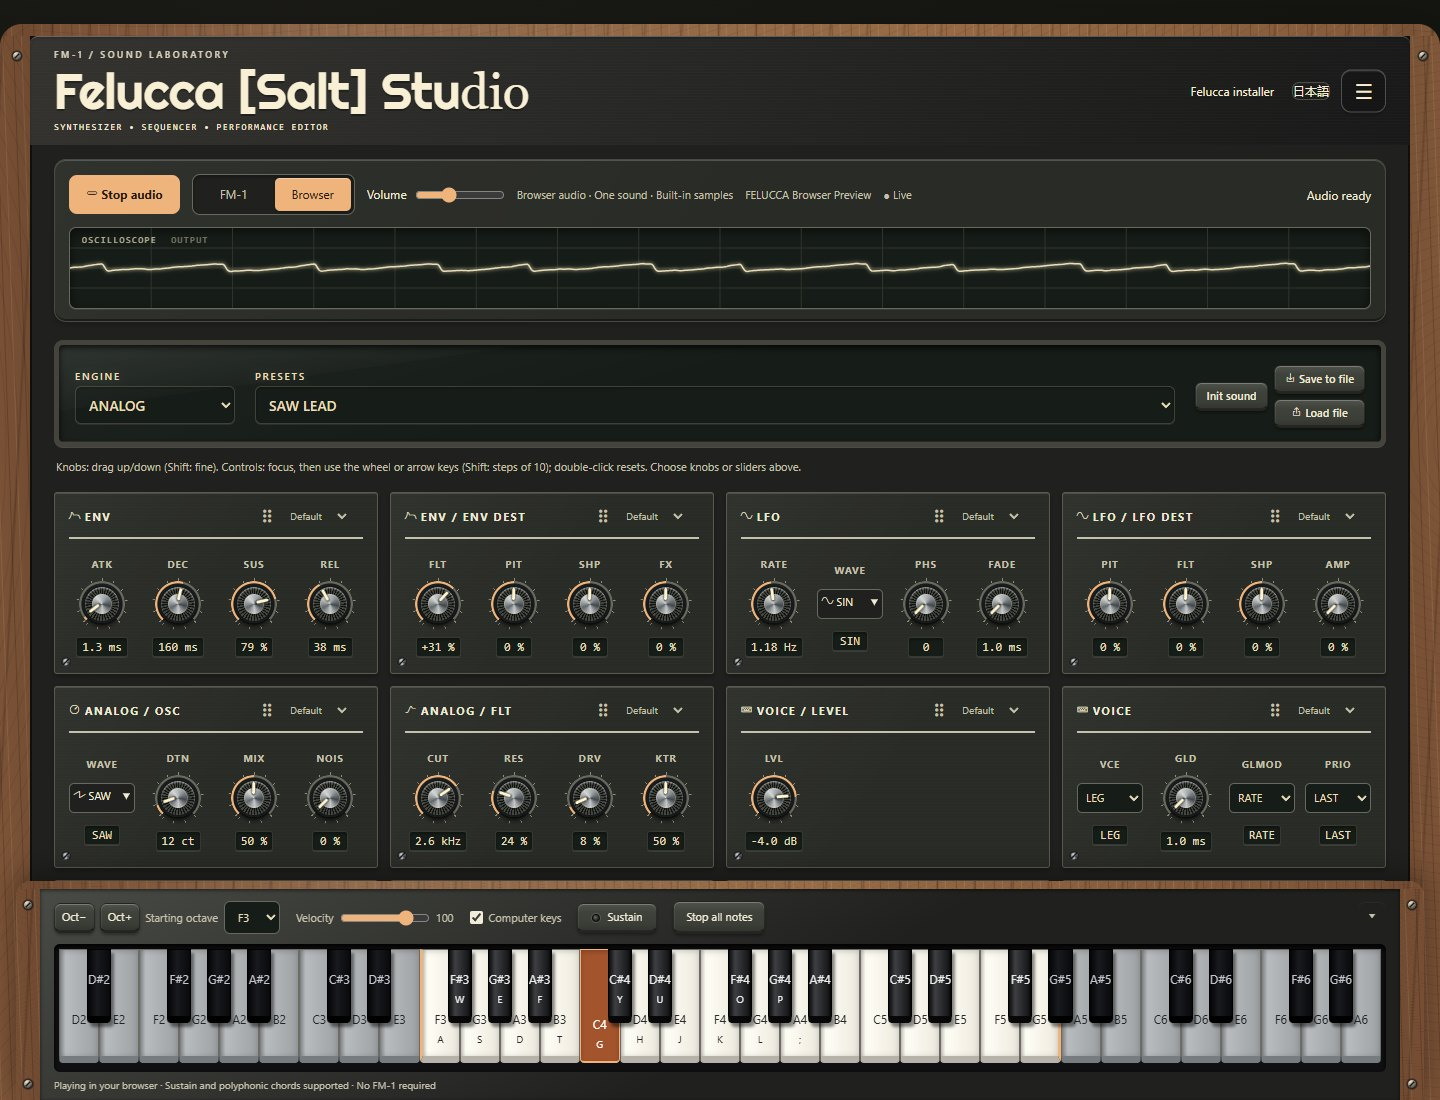
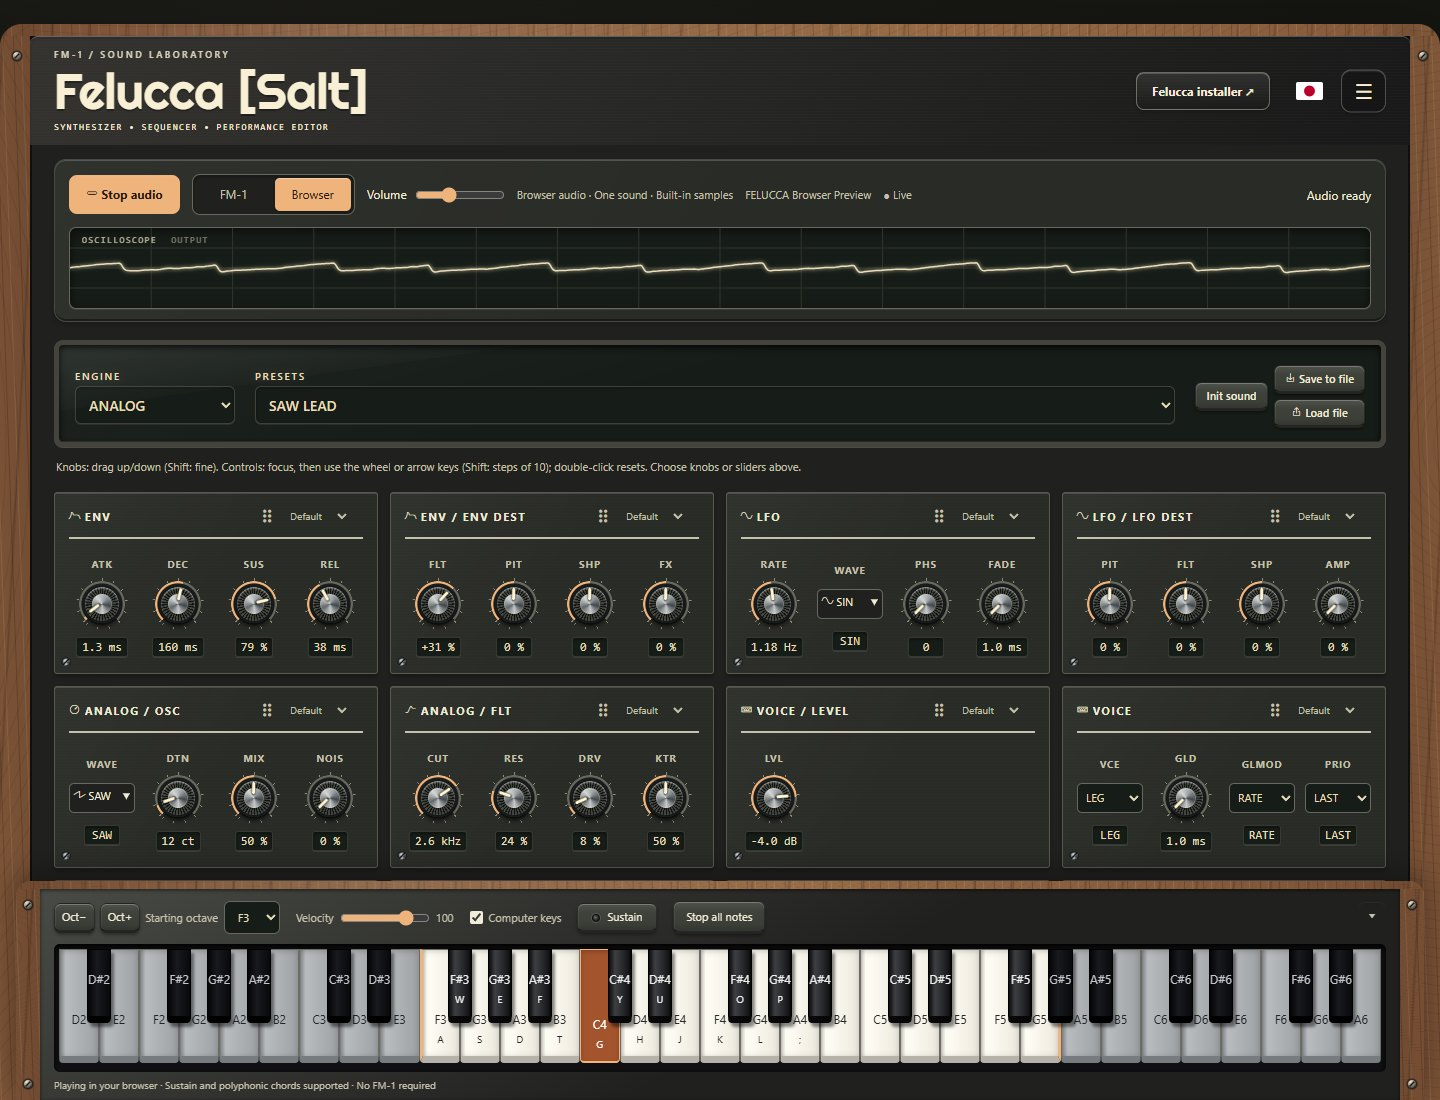
Refine site hero, navigation buttons, language flags, and display fonts

diff --git a/web/index_pkg.html b/web/index_pkg.html
@@ -37,16 +37,103 @@
 <body class="installer-page">
 <main>
   <div class="masthead"><div class="brand-row">
-    <div><div class="eyebrow">FM-1 / Custom firmware</div><h1>Felucca <em>[Salt]</em> Studio</h1><p class="tagline">SMALL INSTRUMENT. BIG POSSIBILITIES.</p></div>
-    <div class="brand-links"><a href="../editor/">Open Studio ↗</a><button class="lang" id="lang"></button></div>
+    <div><div class="eyebrow">FM-1 / Custom firmware</div><h1>Felucca <em>[Salt]</em></h1><p class="tagline">SMALL INSTRUMENT. BIG POSSIBILITIES.</p></div>
+    <div class="brand-links"><a class="installer-button" href="../editor/">Open Studio ↗</a><button class="lang" id="lang"></button></div>
   </div>
   <div class="appearance" data-appearance aria-label="Website appearance"></div>
   </div>
   <div class="install-console">
   <div class="installer-hero" lang="en">
-    <div><h2>A little synth.<br>A bigger playground.</h2><p>Play a sound in your browser or connect your FM-1. A hands-on editor, expressive MIDI, and twelve looks to make it yours.</p></div>
-    <a class="hero-link" href="../editor/">Open Studio ↗</a>
+    <div><h2>A little synth.<br>A bigger playground.</h2><p>Play a sound in your browser or connect your FM-1. A hands-on editor, expressive MIDI, and twelve looks to make it yours.</p><a class="hero-link" href="../editor/">Open Studio ↗</a></div>
+    <div class="hero-instrument"><svg viewBox="0 0 640 410" role="img" aria-labelledby="fm1-wire-title fm1-wire-desc" xmlns="http://www.w3.org/2000/svg">
+<title id="fm1-wire-title">FM-1 synthesizer wireframe</title>
+<desc id="fm1-wire-desc">The FM-1's rounded enclosure, eight rotary controls, central screen, twelve function buttons, octave buttons, and 27 touch keys.</desc>
+<defs>
+ <g id="fm1-knob"><circle r="13"/><ellipse cy="3" rx="16" ry="15" opacity=".35"/><path d="M0 -10v7" stroke-width="2.5"/></g>
+ <g id="fm1-key"><rect width="24" height="49" rx="12"/><path d="M12 12v24" opacity=".65" stroke-width="2.5"/></g>
+</defs>
+<g fill="none" stroke="currentColor" stroke-width="1.5" stroke-linejoin="round" stroke-linecap="round">
+ <path class="wire-secondary" d="M40 101v257q0 27 30 27h500q30 0 30-27V101M46 364q10 10 26 10h497q15 0 24-10"/>
+ <rect x="40" y="55" width="560" height="320" rx="30"/>
+ <rect x="52" y="67" width="536" height="296" rx="23" class="wire-secondary"/>
+ <g class="wire-secondary" stroke-dasharray="2 6"><path d="M28 55H613M28 375H613M40 40V393M600 40V393"/></g>
+ <g><use href="#fm1-knob" x="87" y="105"/><use href="#fm1-knob" x="146" y="105"/><use href="#fm1-knob" x="87" y="161"/><use href="#fm1-knob" x="146" y="161"/>
+ <use href="#fm1-knob" x="358" y="105"/><use href="#fm1-knob" x="421" y="105"/><use href="#fm1-knob" x="484" y="105"/><use href="#fm1-knob" x="547" y="105"/></g>
+ <rect x="185" y="78" width="133" height="131" rx="17"/>
+ <rect x="199" y="93" width="105" height="99" rx="3" class="wire-secondary"/>
+ <g class="wire-display"><path d="M208 164l7-8 5 10 7-3 4-13 6 17 5-4 5 0 5-10 6 14 7-5 5-11 6 17 5-8 5 4 6-5"/><path class="wire-secondary" d="M208 125h87M208 175h87M233 132v11m23-11v11m23-11v11"/></g>
+ <rect x="72" y="197" width="90" height="27" rx="6"/>
+ <rect x="77" y="202" width="34" height="16" rx="3"/><rect x="119" y="202" width="37" height="16" rx="3"/>
+ <rect x="337" y="142" width="230" height="81" rx="12"/>
+ <rect x="60" y="240" width="520" height="117" rx="20"/>
+
+<rect x="346" y="151" width="29" height="27" rx="5"/>
+<rect x="382" y="151" width="29" height="27" rx="5"/>
+<rect x="418" y="151" width="29" height="27" rx="5"/>
+<rect x="454" y="151" width="29" height="27" rx="5"/>
+<rect x="490" y="151" width="29" height="27" rx="5"/>
+<rect x="526" y="151" width="29" height="27" rx="5"/>
+<rect x="346" y="185" width="29" height="27" rx="5"/>
+<rect x="382" y="185" width="29" height="27" rx="5"/>
+<rect x="418" y="185" width="29" height="27" rx="5"/>
+<rect x="454" y="185" width="29" height="27" rx="5"/>
+<rect x="490" y="185" width="29" height="27" rx="5"/>
+<rect x="526" y="185" width="29" height="27" rx="5"/>
+<use href="#fm1-key" x="68" y="302"/>
+<use href="#fm1-key" x="100" y="302"/>
+<use href="#fm1-key" x="132" y="302"/>
+<use href="#fm1-key" x="164" y="302"/>
+<use href="#fm1-key" x="196" y="302"/>
+<use href="#fm1-key" x="228" y="302"/>
+<use href="#fm1-key" x="260" y="302"/>
+<use href="#fm1-key" x="292" y="302"/>
+<use href="#fm1-key" x="324" y="302"/>
+<use href="#fm1-key" x="356" y="302"/>
+<use href="#fm1-key" x="388" y="302"/>
+<use href="#fm1-key" x="420" y="302"/>
+<use href="#fm1-key" x="452" y="302"/>
+<use href="#fm1-key" x="484" y="302"/>
+<use href="#fm1-key" x="516" y="302"/>
+<use href="#fm1-key" x="548" y="302"/>
+<use href="#fm1-key" x="84" y="248"/>
+<use href="#fm1-key" x="116" y="248"/>
+<use href="#fm1-key" x="148" y="248"/>
+<use href="#fm1-key" x="212" y="248"/>
+<use href="#fm1-key" x="244" y="248"/>
+<use href="#fm1-key" x="308" y="248"/>
+<use href="#fm1-key" x="340" y="248"/>
+<use href="#fm1-key" x="372" y="248"/>
+<use href="#fm1-key" x="436" y="248"/>
+<use href="#fm1-key" x="468" y="248"/>
+<use href="#fm1-key" x="532" y="248"/>
+</g><g fill="currentColor" font-size="7" text-anchor="middle">
+<text x="87" y="81">MASTER</text>
+<text x="146" y="81">SELECT</text>
+<text x="87" y="139">PRESETS</text>
+<text x="146" y="139">ALGORITHM</text>
+<text x="358" y="81">KNOB 1</text>
+<text x="421" y="81">KNOB 2</text>
+<text x="484" y="81">KNOB 3</text>
+<text x="547" y="81">KNOB 4</text>
+<text x="94" y="213">OCT−</text>
+<text x="138" y="213">OCT+</text>
+<text x="251" y="115">FELUCCA [SALT]</text>
+<text x="251" y="187">STUDIO</text>
+<text x="360" y="168" font-size="6">FX</text>
+<text x="396" y="168" font-size="6">SCL</text>
+<text x="432" y="168" font-size="6">ENV</text>
+<text x="468" y="168" font-size="6">LFO</text>
+<text x="504" y="168" font-size="6">EDIT</text>
+<text x="540" y="168" font-size="6">GLO</text>
+<text x="360" y="202" font-size="6">HOME</text>
+<text x="396" y="202" font-size="6">SAVE</text>
+<text x="432" y="202" font-size="6">ARP</text>
+<text x="468" y="202" font-size="6">SEQ</text>
+<text x="504" y="202" font-size="6">PLAY</text>
+<text x="540" y="202" font-size="6">REC</text>
+</g></svg></div>
   </div>
+  <p class="install-action"><button id="go" disabled data-t="install"></button></p>
   <p class="small" id="release"></p>
   <p data-t="intro"></p>
   <p data-t="warn"></p>
@@ -56,7 +143,6 @@
     <a href="https://github.com/kurogedelic/FM-1-transporter" target="_blank" rel="noopener" style="color:inherit">FM-1-transporter</a></p>
   <p class="small" data-t="back"></p>
   <p class="small"><a href="https://www.m-vave.com/download" target="_blank" rel="noopener" style="color:inherit">www.m-vave.com/download</a></p>
-  <p class="install-action"><button id="go" disabled data-t="install"></button></p>
   <progress id="bar" max="100" value="0"></progress>
   <p id="status"></p>
   <pre id="log"></pre>
@@ -167,7 +253,7 @@ let lastKey = null, lastArg = "";
 function applyLang() {
   document.documentElement.lang = lang;
   document.querySelectorAll("[data-t]").forEach((e) => { e.textContent = t(e.dataset.t); });
-  $("lang").textContent = t("other");
+  window.FeluccaSkin.setLanguageFlag($("lang"), lang);
   if (lastKey) $("status").textContent = t(lastKey) + lastArg;
 }
 $("lang").addEventListener("click", () => { lang = lang === "ja" ? "en" : "ja"; applyLang(); });

diff --git a/web/interface.css b/web/interface.css
@@ -40,6 +40,11 @@ main { max-width:1560px; margin:24px auto; padding:28px; border:1px solid color-
 .brand-links { gap:18px; }
 .brand-links a, .brand-links button.lang { color:var(--dim); font:12px var(--ui-font); text-decoration:none; }
 .brand-links a:hover, .brand-links button.lang:hover { color:var(--fg); }
+.brand-row .brand-links .installer-button { display:inline-flex; align-items:center; justify-content:center; min-height:38px; box-sizing:border-box; padding:8px 15px; border:1px solid color-mix(in srgb,var(--badge-fg) 35%,transparent); border-radius:8px; color:var(--badge-fg); background:linear-gradient(#ffffff16,#00000012); box-shadow:inset 0 1px #ffffff30,0 2px 4px #0003; font-weight:650; white-space:nowrap; }
+.brand-row .brand-links .installer-button:hover { background:color-mix(in srgb,var(--badge-fg) 15%,transparent); }
+.brand-row .brand-links button.lang { display:grid; place-items:center; flex-shrink:0; float:none; width:42px; height:38px; padding:7px; border:0; border-radius:8px; background:transparent; box-shadow:none; }
+.brand-links button.lang svg { display:block; width:27px; height:18px; border-radius:2px; box-shadow:none; }
+.brand-links :is(.installer-button,button.lang):focus-visible { outline:2px solid var(--badge-fg); outline-offset:3px; }
 .settings-menu { top:24px; }
 .settings-menu > summary { font-size:21px; padding:10px 12px; border-color:var(--line); color:var(--fg); border-radius:10px; background:#ffffff05; }
 .settings-menu[open] > summary { background:var(--accent); color:var(--ink); }
@@ -157,7 +162,13 @@ footer a { text-underline-offset:3px; }
 [data-contrast=high] .brand-row h1 { text-shadow:none; }
 .installer-page main { max-width:1180px; }
 .installer-page .install-console { padding:30px; border-radius:14px; border-color:var(--line); box-shadow:none; }
-.installer-hero { display:grid; grid-template-columns:1fr auto; gap:28px; align-items:center; padding:8px 0 32px; margin-bottom:28px; border-bottom:1px solid var(--line); }
+.installer-hero { display:grid; grid-template-columns:minmax(0,1fr) minmax(0,1fr); gap:28px; align-items:center; padding:8px 0 32px; margin-bottom:28px; border-bottom:1px solid var(--line); }
+.installer-hero .hero-link { margin-top:22px; }
+.hero-instrument { min-width:0; color:var(--accent); background:radial-gradient(ellipse,color-mix(in srgb,var(--accent) 7%,transparent),transparent 70%); }
+.hero-instrument svg { display:block; width:100%; height:auto; overflow:visible; transform:rotate(-4deg); filter:drop-shadow(0 5px 12px #0002); }
+.hero-instrument .wire-secondary { opacity:.42; }
+.hero-instrument .wire-display { color:var(--lcd); }
+.hero-instrument text { font-family:var(--display-font),monospace; letter-spacing:1px; }
 .installer-hero h2 { font:700 clamp(30px,4vw,48px)/1.13 var(--ui-font); letter-spacing:-1.8px; text-transform:none; border:0; margin:0 0 16px; padding:0; }
 .installer-hero p { max-width:550px; color:var(--dim); font:15px/1.7 var(--ui-font); margin:0; }
 .hero-link { display:inline-block; padding:13px 20px; border-radius:9px; background:var(--accent); color:var(--ink); text-decoration:none; font-weight:650; white-space:nowrap; }

diff --git a/web/editor.html b/web/editor.html
@@ -169,8 +169,8 @@
 <body class="editor-page">
 <main>
   <div class="masthead"><div class="brand-row">
-    <div><div class="eyebrow">FM-1 / Sound laboratory</div><h1>Felucca <em>[Salt]</em> Studio</h1><p class="tagline">SYNTHESIZER • SEQUENCER • PERFORMANCE EDITOR</p></div>
-    <div class="brand-links"><a href="../installer/" data-t="installer"></a><button class="lang" id="lang"></button></div>
+    <div><div class="eyebrow">FM-1 / Sound laboratory</div><h1>Felucca <em>[Salt]</em></h1><p class="tagline">SYNTHESIZER • SEQUENCER • PERFORMANCE EDITOR</p></div>
+    <div class="brand-links"><a class="installer-button" href="../installer/" data-t="installer"></a><button class="lang" id="lang" type="button"></button></div>
   </div>
   <div class="appearance" data-appearance aria-label="Website appearance"></div>
   </div>
@@ -1829,7 +1829,7 @@ const TEXT = {
     putDone: "本体に書き込みました: スロット ", storedSlot: "本体に保存しました: スロット ", erasedSlot: "消去しました: スロット ",
     loadedUser: "読み込みました: ", reloaded: "本体で音色が変わったので読み直しました", readingBank: "スロットを読み込み中",
     badEngine: "このファームウェアにないエンジンです: ", flashFail: "書き込みに失敗しました（rc {rc}）",
-    installer: "Felucca インストーラー",
+    installer: "Felucca インストーラー ↗",
     tabSeq: "シーケンサー", tabTracks: "トラック", tabSettings: "設定",
     needDevice: "FM-1 を接続すると編集できます。", smpNone: "このファームウェアにはユーザーサンプルのスロットがありません。",
     bankConnect: "FM-1 を接続すると本体のユーザープリセットも扱えます。", bankNone: "このファームウェアにはユーザープリセットがありません。",
@@ -1914,7 +1914,7 @@ const TEXT = {
     putDone: "Written to the device: slot ", storedSlot: "Stored on the device: slot ", erasedSlot: "Erased slot ",
     loadedUser: "Loaded ", reloaded: "The sound changed on the device: read again", readingBank: "Reading the slots",
     badEngine: "This firmware has no such engine: ", flashFail: "Write failed (rc {rc})",
-    installer: "Felucca installer",
+    installer: "Felucca installer ↗",
     tabSeq: "Sequencer", tabTracks: "Tracks", tabSettings: "Settings",
     needDevice: "Connect the FM-1 to edit.", smpNone: "This firmware has no user sample slots.",
     bankConnect: "Connect the FM-1 to see its user presets too.", bankNone: "This firmware has no user presets.",
@@ -1934,7 +1934,7 @@ function sayK(k, arg = "") { lastKey = k; lastArg = arg; $("status").textContent
 function applyLang() {
   document.documentElement.lang = lang;
   document.querySelectorAll("[data-t]").forEach((e) => setLabel(e, t(e.dataset.t)));
-  $("lang").textContent = t("other");
+  window.FeluccaSkin.setLanguageFlag($("lang"), lang);
   setLabel($("connect"), t(dev ? "disconnect" : "connect"));
   if (lastKey) $("status").textContent = t(lastKey) + lastArg;
   $("libq").placeholder = t("libSearch");

diff --git a/web/fonts.css b/web/fonts.css
@@ -1,10 +1,10 @@
-/* Google Fonts: locally hosted wordmark subsets; see the accompanying license files in fonts/. */
+/* Google Fonts: locally hosted Studio wordmark subsets; see the accompanying license files in fonts/. */
 @font-face {
   font-family: 'Racing Sans One';
   font-style: normal;
   font-weight: 400;
   font-display: swap;
-  src: url(fonts/racingsansone.ttf) format('truetype');
+  src: url(fonts/racingsansone.ttf?v=studio1) format('truetype');
 }
 
 @font-face {
@@ -12,7 +12,7 @@
   font-style: normal;
   font-weight: 700;
   font-display: swap;
-  src: url(fonts/orbitron.ttf) format('truetype');
+  src: url(fonts/orbitron.ttf?v=studio1) format('truetype');
 }
 
 @font-face {
@@ -20,7 +20,7 @@
   font-style: normal;
   font-weight: 400;
   font-display: swap;
-  src: url(fonts/audiowide.ttf) format('truetype');
+  src: url(fonts/audiowide.ttf?v=studio1) format('truetype');
 }
 
 @font-face {
@@ -28,7 +28,7 @@
   font-style: normal;
   font-weight: 400;
   font-display: swap;
-  src: url(fonts/berkshireswash.ttf) format('truetype');
+  src: url(fonts/berkshireswash.ttf?v=studio1) format('truetype');
 }
 
 @font-face {
@@ -36,7 +36,7 @@
   font-style: normal;
   font-weight: 400;
   font-display: swap;
-  src: url(fonts/righteous.ttf) format('truetype');
+  src: url(fonts/righteous.ttf?v=studio1) format('truetype');
 }
 
 @font-face {
@@ -44,7 +44,7 @@
   font-style: normal;
   font-weight: 700;
   font-display: swap;
-  src: url(fonts/syncopate.ttf) format('truetype');
+  src: url(fonts/syncopate.ttf?v=studio1) format('truetype');
 }
 
 @font-face {
@@ -52,7 +52,7 @@
   font-style: normal;
   font-weight: 700;
   font-display: swap;
-  src: url(fonts/josefinsans.ttf) format('truetype');
+  src: url(fonts/josefinsans.ttf?v=studio1) format('truetype');
 }
 
 @font-face {
@@ -60,7 +60,7 @@
   font-style: normal;
   font-weight: 700;
   font-display: swap;
-  src: url(fonts/sora.ttf) format('truetype');
+  src: url(fonts/sora.ttf?v=studio1) format('truetype');
 }
 
 @font-face {
@@ -68,5 +68,5 @@
   font-style: normal;
   font-weight: 400;
   font-display: swap;
-  src: url(fonts/bungee.ttf) format('truetype');
+  src: url(fonts/bungee.ttf?v=studio1) format('truetype');
 }

diff --git a/web/skin.js b/web/skin.js
@@ -162,7 +162,22 @@
       container.append(...[...container.children].sort((a,b) => (ranks.get(a.dataset.cardKey) ?? 999) - (ranks.get(b.dataset.cardKey) ?? 999)));
     }
   }
-  window.FeluccaSkin = { enhance, sync, decorate };
+  function setLanguageFlag(button, language) {
+    const english = language === 'ja';
+    button.setAttribute('aria-label', english ? 'Switch to English' : '日本語に切り替え');
+    button.title = english ? 'English' : '日本語';
+    let flag = '<rect width="60" height="40" fill="#fff"/><circle cx="30" cy="20" r="12" fill="#bc002d"/>';
+    if (english) {
+      flag = '<rect width="60" height="40" fill="#fff"/>';
+      for (let row = 0; row < 7; row++) flag += `<rect y="${row * 80 / 13}" width="60" height="${40 / 13}" fill="#b22234"/>`;
+      flag += '<rect width="26" height="21.54" fill="#3c3b6e"/>';
+      for (let row = 0; row < 9; row++) for (let col = 0; col < (row % 2 ? 5 : 6); col++) {
+        flag += `<circle cx="${2.2 + col * 4.3 + (row % 2 ? 2.15 : 0)}" cy="${1.5 + row * 2.3}" r=".7" fill="#fff"/>`;
+      }
+    }
+    button.innerHTML = `<svg viewBox="0 0 60 40" aria-hidden="true" focusable="false">${flag}</svg>`;
+  }
+  window.FeluccaSkin = { enhance, sync, decorate, setLanguageFlag };
   document.addEventListener('DOMContentLoaded', () => {
     const host = document.querySelector('[data-appearance]');
     if (!host) return;
